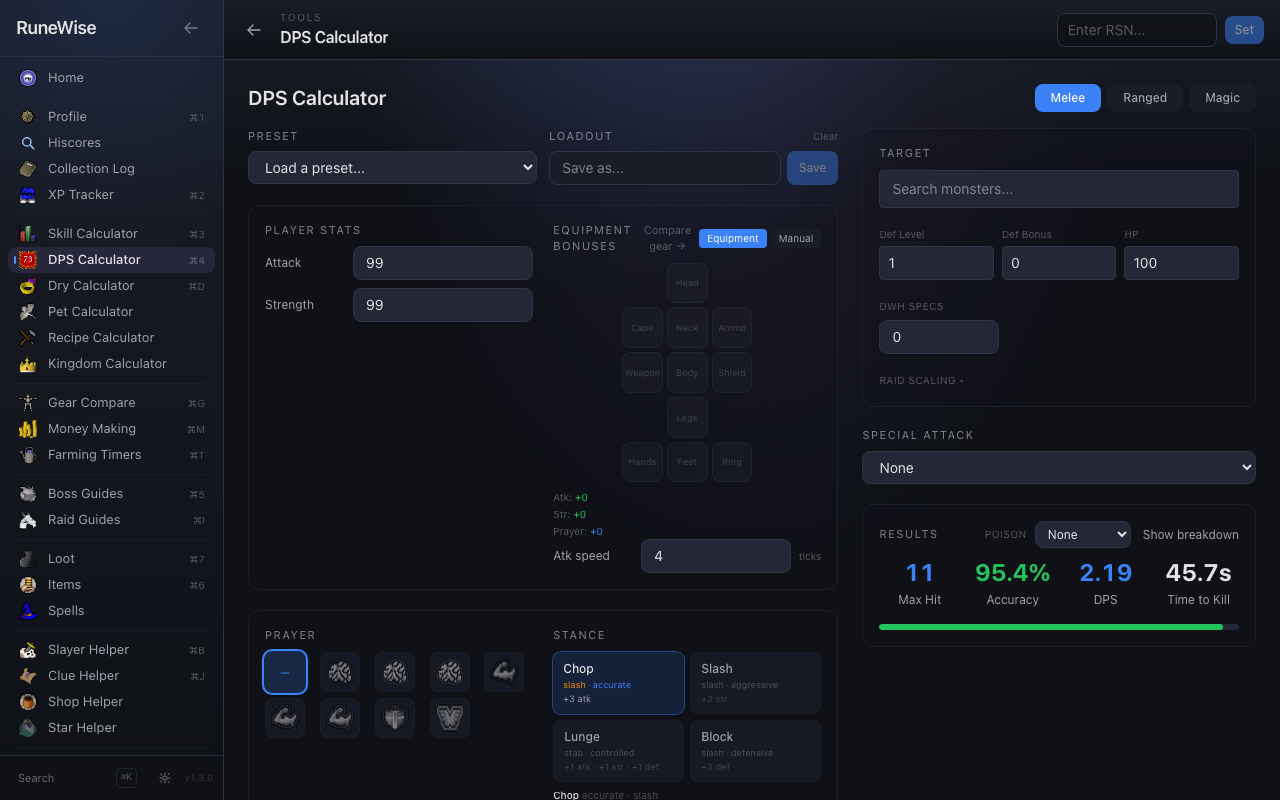
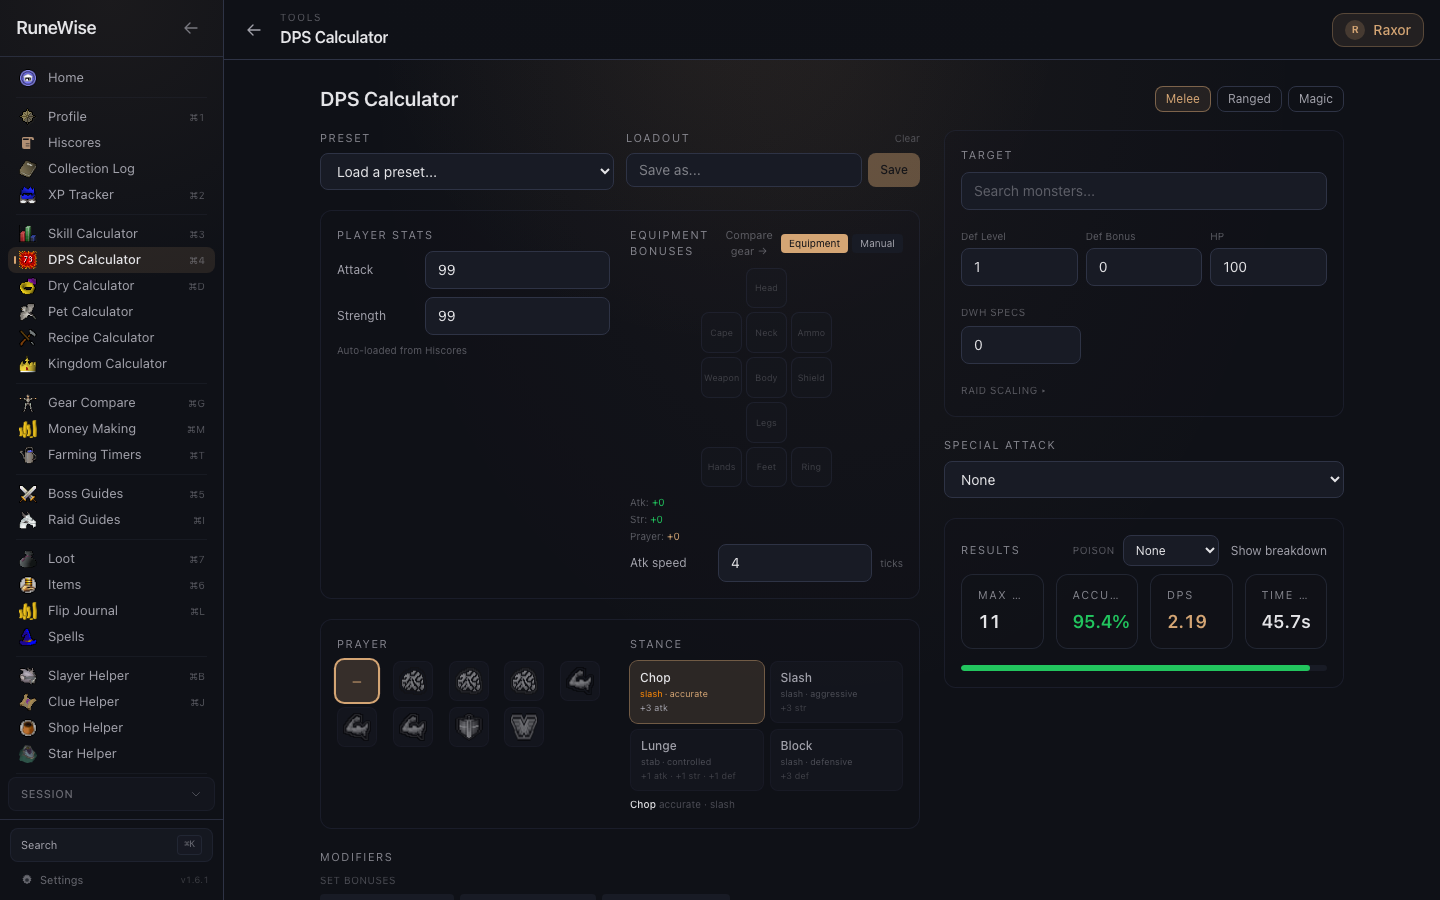
docs: redesign readme as product-release page with refreshed screenshots

diff --git a/README.md b/README.md
@@ -1,114 +1,262 @@
+<div align="center">
+
 # RuneWise
 
+### The OSRS companion that respects your time.
+
+**30+ tools. Zero browser tabs. One 8 MB native app.**
+
 [![CI](https://github.com/McNerve/runewise/actions/workflows/ci.yml/badge.svg)](https://github.com/McNerve/runewise/actions/workflows/ci.yml)
-[![Latest Release](https://img.shields.io/github/v/release/McNerve/runewise)](https://github.com/McNerve/runewise/releases/latest)
-[![License: MIT](https://img.shields.io/github/license/McNerve/runewise)](LICENSE)
-[![Downloads](https://img.shields.io/github/downloads/McNerve/runewise/total)](https://github.com/McNerve/runewise/releases)
+[![Latest Release](https://img.shields.io/github/v/release/McNerve/runewise?color=d4a574&label=release&style=flat)](https://github.com/McNerve/runewise/releases/latest)
+[![Downloads](https://img.shields.io/github/downloads/McNerve/runewise/total?color=d4a574&style=flat)](https://github.com/McNerve/runewise/releases)
+[![License: MIT](https://img.shields.io/github/license/McNerve/runewise?color=d4a574&style=flat)](LICENSE)
 
-Your all-in-one OSRS desktop companion. DPS calculators, boss guides, drop tables, skill planners, GE prices, shop data, and 30+ tools — all in a single lightweight app.
+[**Download for your platform →**](https://github.com/McNerve/runewise/releases/latest)
 
-**No browser tabs. No ads. No bloat. 8MB native app.**
+![Home](docs/screenshots/home.png)
 
-## Download
-
-> **Pick the right file for your system:**
-
-| Platform | File | Notes |
-|----------|------|-------|
-| **Windows** | `.exe` installer | May show SmartScreen warning — click "More info" → "Run anyway" |
-| **macOS (M1/M2/M3/M4)** | `aarch64.dmg` | First launch: System Settings → Privacy & Security → Open Anyway |
-| **macOS (Intel)** | `x64.dmg` | Same as above |
-
-**[→ Download Latest Release](https://github.com/McNerve/runewise/releases/latest)**
-
-Updates are automatic — RuneWise checks for new versions and installs them in the background.
-
-## Screenshots
-
-| | |
-|---|---|
-| ![Home](docs/screenshots/home.png) | ![DPS Calculator](docs/screenshots/dps-calc.png) |
-| ![Boss Guides](docs/screenshots/boss-guides.png) | ![Market](docs/screenshots/market.png) |
-| ![Shop Helper](docs/screenshots/shop-helper.png) | ![Slayer Helper](docs/screenshots/slayer.png) |
-
-## Features
-
-### 30+ Tools in One App
-
-**Player**
-- Profile overview with stats, boss KCs, collection log, EHP/EHB
-- XP Tracker with gains, achievements, records (via Wise Old Man)
-- Ironman mode auto-detection — filters training methods and shows relevant warnings
-
-**Calculators**
-- Skill Calculator — 24 skills, 140+ training methods with XP/hr, intensity badges, cost estimates
-- DPS Calculator — 3,172 monsters, 16 modifiers, phase-based bosses, special attack DPS, spell selection, raid scaling, loadout comparison
-- Training Plan — optimal method sequences with time/cost estimates
-- Dry Calculator — drop probability with 68 boss presets
-- Pet Calculator — 60+ pets with KC/action-based odds
-- Production Calculator — recipe costs + profits for bulk crafting
-
-**Bossing**
-- Boss Guides — wiki strategy content, equipment loadouts, mechanics for 58 bosses
-- Raid Guides — CoX, ToB, ToA room reference with loot calculators
-- Drop Tables — rarity bars, live GE prices, GP/kill, GP/hr
-- Combat Achievements — all 637 tasks organized by tier
-
-**Market**
-- Item search with live GE prices, margins, price charts, high alch values
-- Rich item tooltips — hover any item name to see GE price, alch value, examine text
-- Watchlist with price alerts
-- Alch profit table
-
-**Guides**
-- Quest tracker (225 quests) + Achievement Diaries (13 regions)
-- Slayer Helper — task weights, block calculator, reward shop with unlock tracking, strategy guides
-- Shop Helper — 580+ OSRS shops with stock, prices, GE comparison, and savings indicators
-- Clue Helper — 730 solutions
-- Spellbook — 224 spells across 4 spellbooks
-
-**Live**
-- World Map with wiki tile markers
-- Shooting Stars — live tracker with tier, world, time remaining
-- OSRS News — blog posts with inline reading
-- Wiki Lookup — search and read any wiki page in-app
-
-**App**
-- Dark / Light / System theme
-- Configurable keyboard shortcuts (Cmd/Ctrl + key) with disable toggle
-- Global search (Cmd+K)
-- Collapsible sidebar
-- Auto-updater
-
-## How It Works
-
-RuneWise pulls data from public OSRS APIs. No login required, no credentials stored, no game client interaction.
-
-| Source | What it provides |
-|--------|-----------------|
-| [OSRS Wiki](https://oldschool.runescape.wiki/) | Items, drops, bosses, shops, spells, quests, news ([CC BY-NC-SA 3.0](https://creativecommons.org/licenses/by-nc-sa/3.0/)) |
-| [OSRS Hiscores](https://secure.runescape.com/m=hiscore_oldschool/) | Player stats, boss KCs, ironman detection |
-| [Wise Old Man](https://wiseoldman.net/) | XP tracking, achievements, records ([MIT](https://github.com/wise-old-man/wise-old-man/blob/master/LICENSE)) |
-| [Temple OSRS](https://templeosrs.com/) | Collection log data |
-| [Star Miners](https://starminers.site/) | Live shooting star locations |
-| [RuneLite](https://github.com/runelite/runelite) | Clue data ([BSD](https://github.com/runelite/runelite/blob/master/LICENSE)) |
-
-## Privacy & Security
-
-- Fully open source — audit every line
-- No account credentials ever requested or stored
-- Only your RSN (public username) is saved locally
-- Network access restricted to known OSRS API domains
-- The app does not interact with the game client
-
-## Built With
-
-[Tauri v2](https://v2.tauri.app/) (Rust) · React 19 · TypeScript · Vite · Tailwind CSS 4
-
-## License
-
-MIT
+</div>
 
 ---
 
+## Why RuneWise
+
+Old School runs on knowledge. Wiki tabs, DPS calculators, drop trackers, clue solvers, shop
+prices, star radars, farming timers — the modern player juggles a dozen browser tabs just to
+play the game. RuneWise pulls all of it into one native desktop app that loads instantly,
+remembers your RSN, and updates live.
+
+No accounts. No tracking. No ads. No bloat. Everything your character needs, in one place.
+
+<table>
+<tr>
+<td align="center" width="33%">
+
+### 🎯 Comprehensive
+**30+ tools.** Calculators, guides,
+drop tables, market data, live
+events, trackers — all in one shell.
+
+</td>
+<td align="center" width="33%">
+
+### ⚡ Native & instant
+**8 MB Tauri desktop app.**
+Launches in a blink, runs offline
+where possible, auto-updates.
+
+</td>
+<td align="center" width="33%">
+
+### 🔒 Private by default
+**No login.** No credentials ever
+stored. Only your public RSN is
+saved — locally, on this device.
+
+</td>
+</tr>
+</table>
+
+---
+
+## Download
+
+<table>
+<tr>
+<th width="34%">Platform</th>
+<th width="33%">File</th>
+<th width="33%">Notes</th>
+</tr>
+<tr>
+<td>🪟 <b>Windows 10/11</b></td>
+<td><code>.exe</code> installer</td>
+<td>SmartScreen may warn → <i>More info</i> → <i>Run anyway</i></td>
+</tr>
+<tr>
+<td>🍎 <b>macOS (Apple Silicon)</b></td>
+<td><code>aarch64.dmg</code></td>
+<td>First launch: System Settings → Privacy → <i>Open Anyway</i></td>
+</tr>
+<tr>
+<td>🍎 <b>macOS (Intel)</b></td>
+<td><code>x64.dmg</code></td>
+<td>Same as Apple Silicon</td>
+</tr>
+<tr>
+<td>🐧 <b>Linux</b></td>
+<td><code>.AppImage</code></td>
+<td>`chmod +x` and run</td>
+</tr>
+</table>
+
+> Updates install in the background. RuneWise checks for new releases automatically.
+
+[**→ Get the latest release**](https://github.com/McNerve/runewise/releases/latest)
+
+---
+
+## What's inside
+
+### Player & Progress
+
+Your hiscores, your way. Profile, XP tracking, collection log, quest tracker, achievement
+diaries, and combat achievements — all synced from public OSRS APIs.
+
+![Profile](docs/screenshots/profile.png)
+
+Side-by-side compare with any other player. Track your XP gains, achievements, and records
+via Wise Old Man — no login required.
+
+![XP Tracker](docs/screenshots/xp-tracker.png)
+
+### Calculators
+
+Every number you need to run the game.
+
+<table>
+<tr>
+<td><b>Skill Calculator</b></td>
+<td>24 skills · 140+ methods · intensity badges · GP/XP · hiscores integration</td>
+</tr>
+<tr>
+<td><b>DPS Calculator</b></td>
+<td>3,172 monsters · 16 modifiers · phase bosses · spec attacks · spell selection · loadout snapshots</td>
+</tr>
+<tr>
+<td><b>Training Plan</b></td>
+<td>Optimal method sequencing with time + cost estimates</td>
+</tr>
+<tr>
+<td><b>Dry Calculator</b></td>
+<td>68 boss presets · auto-fill KC from your hiscores · confidence intervals</td>
+</tr>
+<tr>
+<td><b>Pet Calculator</b></td>
+<td>68 pets · KC/action-based odds · Temple-synced "already owned" indicator</td>
+</tr>
+<tr>
+<td><b>Recipe Calculator</b></td>
+<td>5,300+ recipes · live GE material costs · batch profit math</td>
+</tr>
+<tr>
+<td><b>Kingdom of Miscellania</b></td>
+<td>Worker allocation optimiser with live GE prices</td>
+</tr>
+<tr>
+<td><b>Gear Compare</b></td>
+<td>BiS by slot, sortable by any stat across 3,000+ equipment entries</td>
+</tr>
+</table>
+
+![DPS Calculator](docs/screenshots/dps-calc.png)
+
+![Skill Calculator](docs/screenshots/skill-calc.png)
+
+![Gear Compare](docs/screenshots/gear-compare.png)
+
+### Bossing
+
+Curated strategy guides pulled live from the OSRS Wiki for 58 bosses, structured into
+app-native sections. Your KC, your drop history, your gear — wired together.
+
+- **Infobox-driven chips** — weakness, recommended approach, team size, combat level
+- **Full heading hierarchy** — mechanics, phases, and sub-sections preserved (~25+ sections for a raid)
+- **Loadout tables** by combat style with ownership checkboxes
+- **Drop tables** with live GE prices and GP/hour estimates
+- **Raid guides** for CoX, ToB, ToA with split tracking
+
+![Boss Guide — Vorkath](docs/screenshots/boss-guide.png)
+
+### Market
+
+Every item, every price, updated every couple of minutes.
+
+- Item search with live GE prices, margin, daily volume, buy limit
+- Rich tooltips — hover any item name in any table to preview
+- Price charts (1D / 1W / 1M / 3M / 6M / 1Y · line or candle)
+- Watchlist with threshold price alerts
+- High-alchemy profit table with Nature-rune cost built in
+- **GE Flip Journal** — log your buys and sells, see cumulative profit over time
+
+![Market](docs/screenshots/market.png)
+
+### Guides & Helpers
+
+- **Slayer Helper** — task weights by master, block calculator, reward-shop tracking, strategy guides
+- **Shop Helper** — 580+ OSRS shops with live GE comparison and "Save X gp" deltas
+- **Clue Helper** — 730 clue solutions, paste-and-solve input, tier + type filters
+- **Spellbook** — 224 spells across 4 books with rune costs per cast
+- **Combat Achievements** — all 743 tasks organised by tier with completion tracking
+
+![Slayer Helper](docs/screenshots/slayer.png)
+
+### Live
+
+Real-time game events in one place.
+
+- **Shooting Stars** — live tracker from the Star Miners crowdsource API with tier, world, time remaining, teleport suggestions, and opt-in native spawn alerts
+- **World Map** — 114+ hand-placed POIs (farming, fairy rings, slayer, altars, teleports) with cursor-anchored zoom
+- **OSRS News** — shipped, upcoming, and proposed updates in one feed
+- **Wiki Lookup** — search any wiki page with live GE price enrichment and in-page table of contents
+
+![Shooting Stars](docs/screenshots/stars.png)
+
+![World Map](docs/screenshots/world-map.png)
+
+![Wiki Lookup](docs/screenshots/wiki.png)
+
+---
+
+## How it works
+
+RuneWise is a read-only client. We pull data from public OSRS APIs and cache locally in
+IndexedDB. The game client is never touched; no EULA is ever strained.
+
+| Source | What it provides | License |
+|--------|------------------|---------|
+| [OSRS Wiki](https://oldschool.runescape.wiki/) | Items, drops, bosses, shops, spells, quests, news, strategies | [CC BY-NC-SA 3.0](https://creativecommons.org/licenses/by-nc-sa/3.0/) |
+| [OSRS Hiscores](https://secure.runescape.com/m=hiscore_oldschool/) | Player stats, boss KCs, ironman detection | Jagex |
+| [Wise Old Man](https://wiseoldman.net/) | XP tracking, achievements, records, competitions | [MIT](https://github.com/wise-old-man/wise-old-man/blob/master/LICENSE) |
+| [Temple OSRS](https://templeosrs.com/) | Collection log data | Public API |
+| [Star Miners](https://starminers.site/) | Live shooting star locations | Public API |
+| [RuneLite](https://github.com/runelite/runelite) | Clue data | [BSD](https://github.com/runelite/runelite/blob/master/LICENSE) |
+
+---
+
+## Privacy & security
+
+- **Fully open source** — every line is [on GitHub](https://github.com/McNerve/runewise).
+- **No account credentials** are ever requested or stored.
+- Only your RSN (public username) is saved locally, in browser storage.
+- Network calls are restricted to a known allowlist of OSRS API domains.
+- The app does **not** interact with the Old School client. No memory reading, no overlay, no automation.
+
+---
+
+## Built with
+
+<p>
+  <a href="https://v2.tauri.app/"><img alt="Tauri 2" src="https://img.shields.io/badge/Tauri-2-24c8db?style=for-the-badge&logo=tauri&logoColor=white"></a>
+  <a href="https://react.dev/"><img alt="React 19" src="https://img.shields.io/badge/React-19-61dafb?style=for-the-badge&logo=react&logoColor=black"></a>
+  <a href="https://www.typescriptlang.org/"><img alt="TypeScript" src="https://img.shields.io/badge/TypeScript-5-3178c6?style=for-the-badge&logo=typescript&logoColor=white"></a>
+  <a href="https://tailwindcss.com/"><img alt="Tailwind 4" src="https://img.shields.io/badge/Tailwind-4-38bdf8?style=for-the-badge&logo=tailwindcss&logoColor=white"></a>
+  <a href="https://vite.dev/"><img alt="Vite" src="https://img.shields.io/badge/Vite-8-646cff?style=for-the-badge&logo=vite&logoColor=white"></a>
+</p>
+
+Tauri v2 (Rust) · React 19 · TypeScript · Vite 8 · Tailwind CSS 4 · lightweight-charts · Motion
+
+## Contributing
+
+Bug reports, feature requests, and PRs are welcome. See [Issues](https://github.com/McNerve/runewise/issues).
+
+## License
+
+MIT — see [LICENSE](LICENSE).
+
+---
+
+<div align="center">
+
 *RuneWise is not affiliated with or endorsed by Jagex Ltd. Old School RuneScape is a trademark of Jagex Ltd.*
+
+</div>
